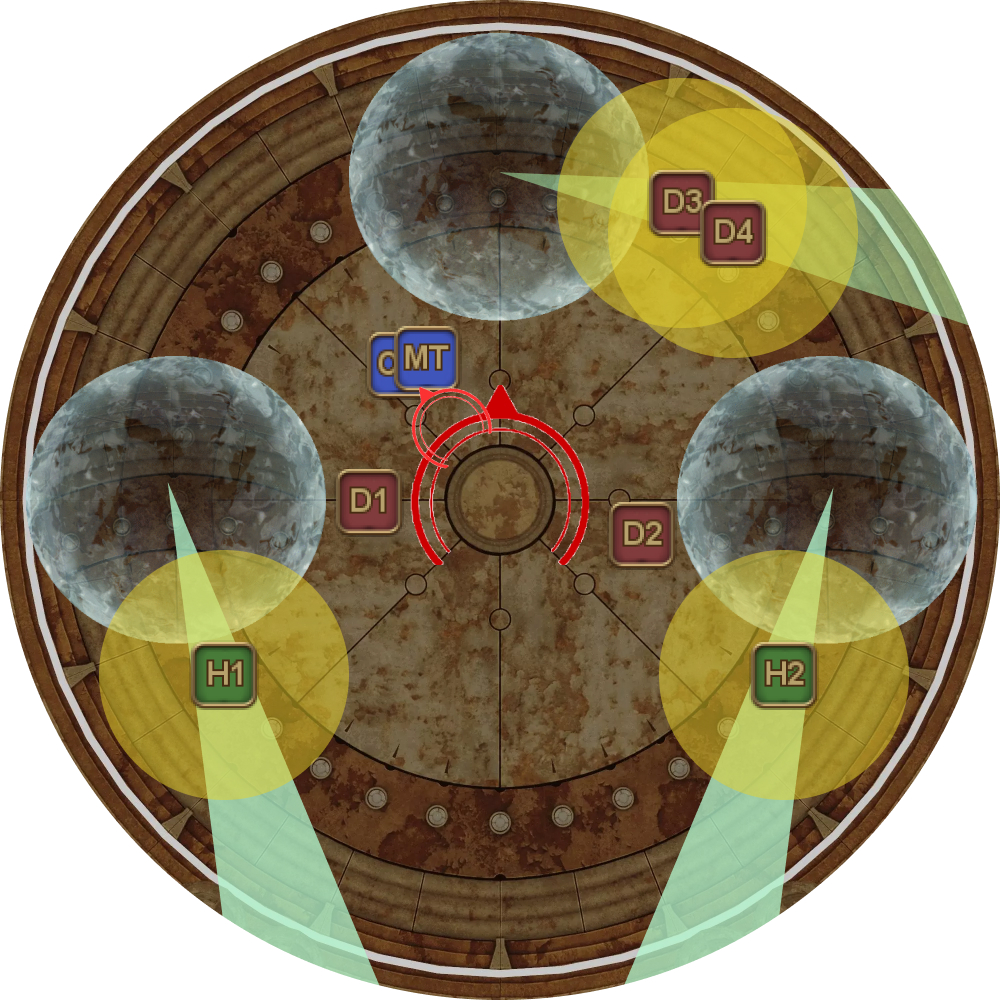
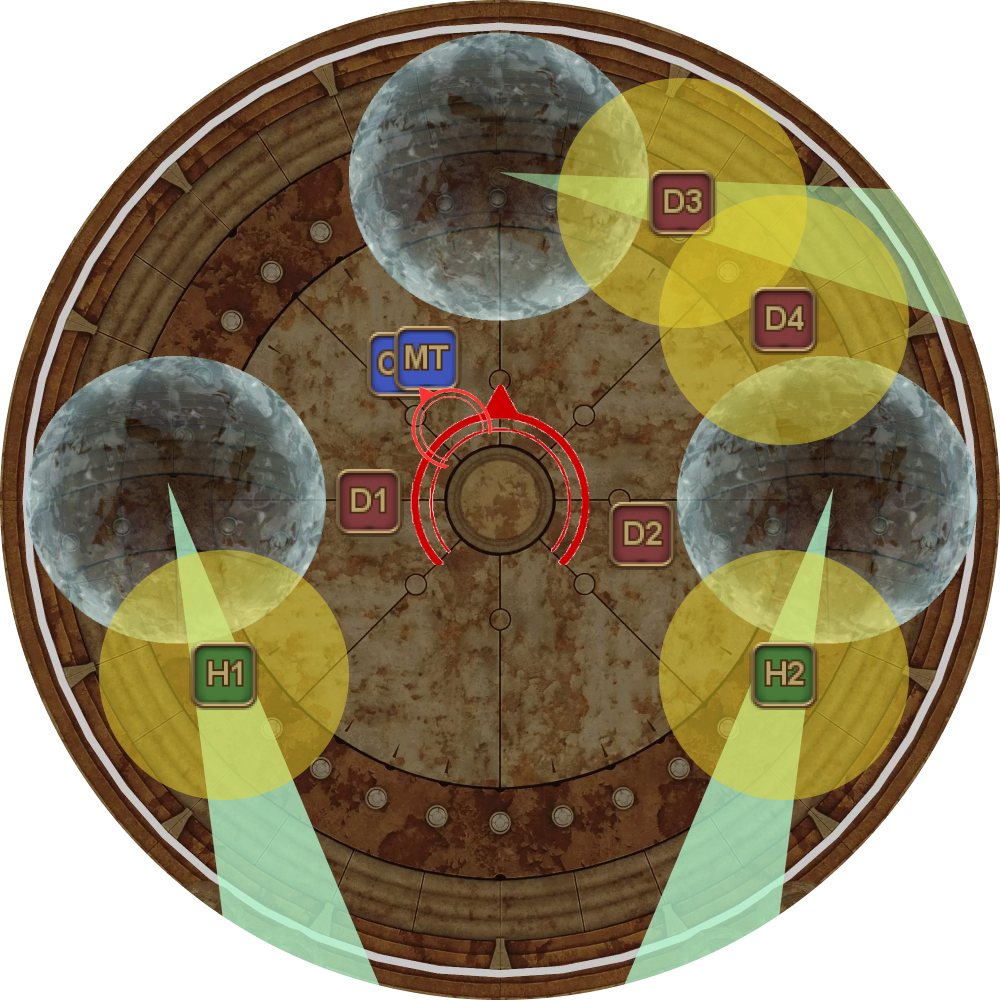
Clarify D4's role in Protean 2

Changed region(s): [[0.589, 0.093, 0.93, 0.465]]

diff --git a/ultimates/tea/en/01_living_liquid.md b/ultimates/tea/en/01_living_liquid.md
@@ -69,7 +69,7 @@ Notable changes are:
 	<td><img src="../images/living_liquid/living_liquid_13.jpg"></td>
   </tr>
   <tr>
-    <td><p><b>14.</b> 1st telegraphed Protean Waves from the puddles.</p><p><ul><li>D1, D2: Prepare to bait the "west" and "east" puddles.</li><li>H1, H2, D3, D4: Move in to bait Living Liquid's Protean Waves after the puddle's telegraphs appear.</li></ul></p></td>
+    <td><p><b>14.</b> 1st telegraphed Protean Waves from the puddles.</p><p><ul><li>D1, D2: Prepare to bait the "west" and "east" puddles.</li><li>H1, H2, D3, D4: Move in to bait Living Liquid's Protean Waves after the puddle's telegraphs appear.</li></ul></p><p><em>(The East puddle's Protean Wave can be baited by either H2 or D4.)</em></p></td>
 	<td><img src="../images/living_liquid/living_liquid_14.jpg"></td>
   </tr>
   <tr>
